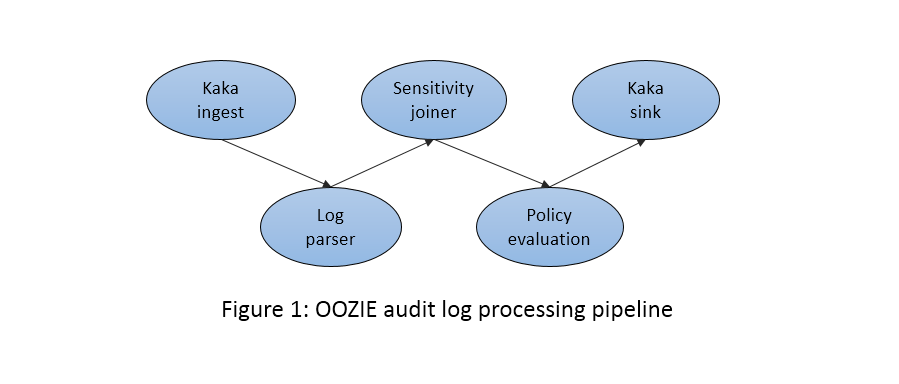
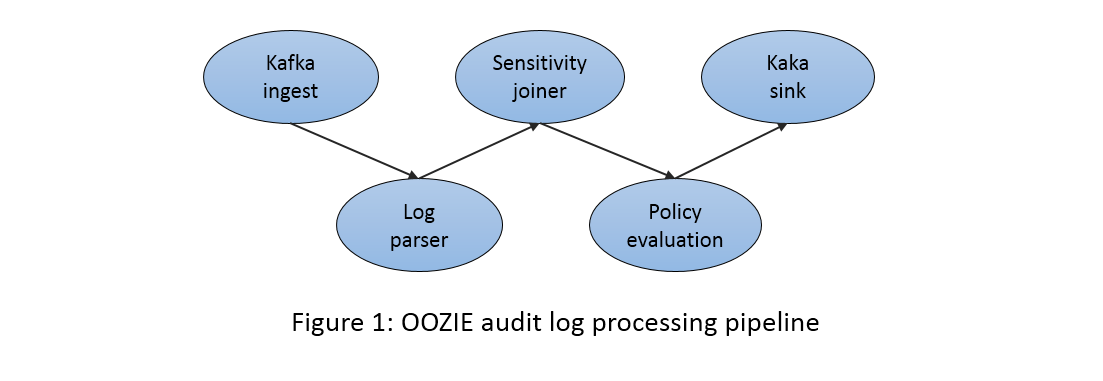
eagle-doc - Add oozie audit log doc.

diff --git a/docs/applications.md b/docs/applications.md
@@ -79,7 +79,7 @@ This application aims to monitor user activities on OOZIE via the oozie audit lo
 
 * Kafka ingest: this application consumes data from Kafka. In other words, users have to stream the log into Kafka first. 
 
-* Data re-procesing, which includes raw log parser, ip zone joiner, sensitivity information joiner. 
+* Data re-procesing, which includes raw log parser, sensitivity information joiner. 
 
 * Kafka sink: parsed data will flows into Kafka again, which will be consumed by the alert engine. 
 
